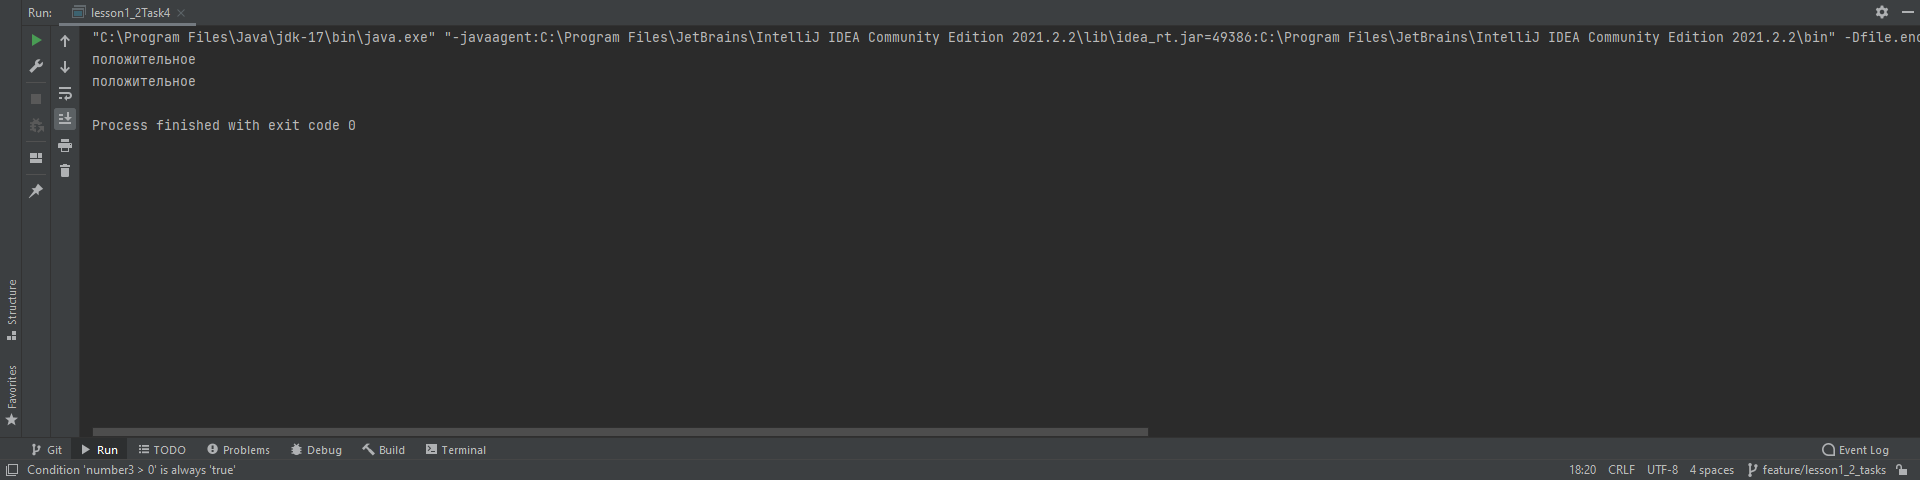
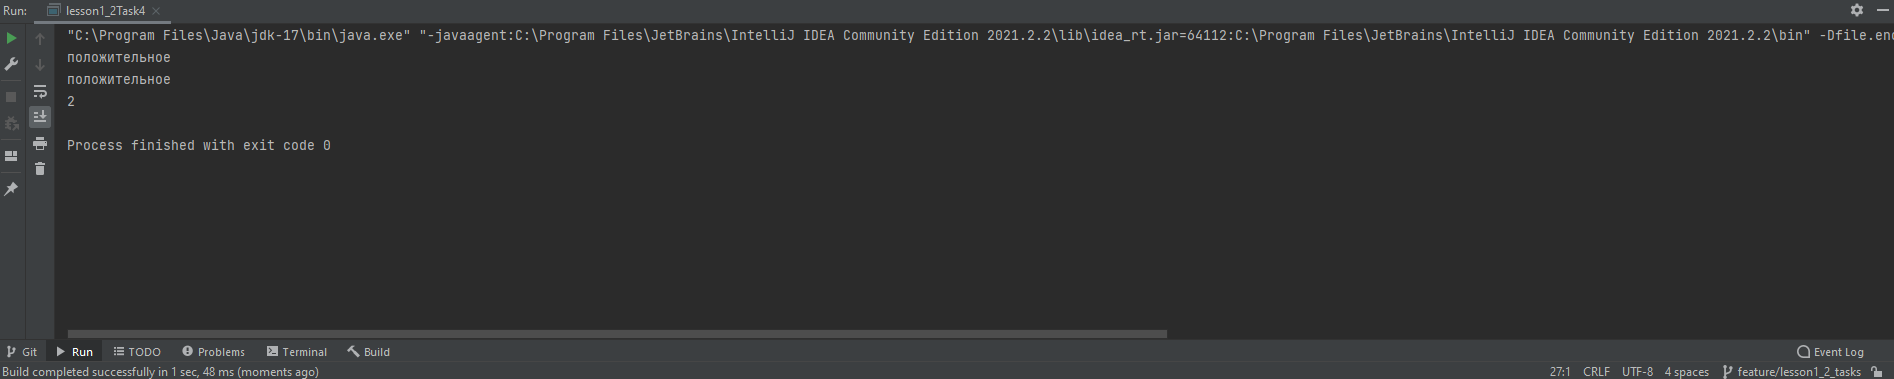
Completed 6 tasks Lesson1_2 homework

diff --git a/src/lesson1_2/lesson1_2Task5.java b/src/lesson1_2/lesson1_2Task5.java
@@ -1,27 +1,37 @@
 package lesson1_2;
 
+import jdk.swing.interop.SwingInterOpUtils;
+
 /**5) Даны 3 целых числа. Найти количество положительных и отрицательных
  чисел в исходном наборе.*/
-
 public class lesson1_2Task5 {
     public static void main (String [] agrs) {
-
 
         byte number1 = -23;
         byte number2 = 15;
         byte number3 = 10;
+        int negativCounter = 0;
+        int positivCounter = 0;
 
-        if (number1 > 0)
+        if (number1 > 0){
             System.out.println("положительное");
-        else if (number1 < 0)
+             positivCounter++;}
+        else if (number1 < 0){
             System.out.println("отрицательное");
-        if (number2 > 0)
+            negativCounter++;}
+        if (number2 > 0){
             System.out.println("положительное");
-        else if (number2 < 0)
+            positivCounter++;}
+        else if (number2 < 0){
             System.out.println("отрицательное");
-        if (number3 > 0)
+            negativCounter++;}
+        if (number3 > 0){
             System.out.println("положительное");
-        else if (number3 < 0)
+            positivCounter++;}
+        else if (number3 < 0){
             System.out.println("отрицательное");
+            negativCounter++;}
+        System.out.println(negativCounter);
+        System.out.println(positivCounter);
     }
 }

diff --git a/src/lesson1_2/lesson1_2Task2.java b/src/lesson1_2/lesson1_2Task2.java
@@ -1,27 +1,26 @@
 package lesson1_2;
-
 /**2) Треугольник существует только тогда, когда сумма любых двух его сторон
         больше третьей. Определить существует ли такой треугольник. Дано: a, b, c –
         стороны предполагаемого треугольника. Требуется сравнить длину каждого
         отрезка-стороны с суммой двух других. Если хотя бы в одном случае отрезок
         окажется больше суммы двух других, то треугольника с такими сторонами не
         существует*/
-
-
-
 public class lesson1_2Task2 {
 
     public static void main(String[] args) {
 
+        int     sideA = 4,
+                sideB= 8,
+                sideC= 14;
 
-        int     a = 4,
-                b = 8,
-                c = 14;
+        if (sideA + sideB > sideC && sideA + sideC > sideB && sideC + sideB > sideA) ;
+        {
 
-        if (a + b > c && a + c > b && c + b > a) ;
-
-        else
+            System.out.println("Треугольник  существует");
+        }
+        if (sideA + sideB < sideC && sideA + sideC < sideB && sideC + sideB < sideA) {
             System.out.println("Треугольник не существует");
 
+        }
     }
 }

diff --git a/src/lesson1_2/lesson1_2Task1.java b/src/lesson1_2/lesson1_2Task1.java
@@ -1,28 +1,24 @@
 package lesson1_2;
-
 /**1) В переменную записываем число. Надо вывести на экран сколько в этом
  числе цифр и положительное оно или отрицательное. Например, "это
  однозначное положительное число". Достаточно будет определить, является ли
  число однозначным, "двухзначным или трехзначным и более.*/
-
-
-
 public class lesson1_2Task1 {
     public static void main(String[] agrs) {
 
-        int number1 = 351;
+        int targetNumber = 351;
 
-        if (number1 < 0) {
+        if (targetNumber < 0) {
             System.out.println("Число отрицательное,");
-        } else if (number1 > 0) {
+        } else if (targetNumber > 0) {
             System.out.println("Число положительное,");
         } else {
             System.out.println("Число 0");
 
         }
-        if (number1 > 9 && number1 < 100) {
+        if (targetNumber > 9 && targetNumber < 100) {
             System.out.println("двухзначное.");
-        } else if (number1 < 10) {
+        } else if (targetNumber < 10) {
             System.out.println("однозначное.");
         } else {
             System.out.println("трехзначное и более.");

diff --git a/src/lesson1_2/lesson1_2Task4.java b/src/lesson1_2/lesson1_2Task4.java
@@ -1,25 +1,28 @@
 package lesson1_2;
-
 /**4) Даны 3 целых числа. Найти количество положительных чисел в исходном
  наборе.*/
-
-
 public class lesson1_2Task4 {
     public static void main (String [] arg){
 
-        int number1 = -37;
-        int number2 = 1;
-        int number3 = 29;
+        int firstInteger = -37;
+        int secondInteger = 1;
+        int thirdInteger = 29;
+        int  counter = 0;
 
-        if (number1 > 0)
+        if (firstInteger > 0) {
             System.out.println("положительное");
-        if (number2 > 0)
+            counter++;
+        }
+        if (secondInteger > 0) {
             System.out.println("положительное");
-        if (number3 > 0)
+            counter++;
+        }
+        if (thirdInteger > 0) {
             System.out.println("положительное");
-
-
-
+            counter++;
+        }
+        System.out.println(counter);
 
     }
+
 }

diff --git a/src/lesson1_2/lesson1_2Task3.java b/src/lesson1_2/lesson1_2Task3.java
@@ -1,25 +1,19 @@
 package lesson1_2;
-
 /**3) Дано целое число. Если оно является положительным, то прибавить к нему 1.
  Если отрицательным, то вычесть из него 2. Если нулевым, то заменить его на
  10. Вывести полученное число.*/
-
-
-
 public class lesson1_2Task3 {
 
     public static void main(String [] args){
 
-        short number1 = 33;
+        short integer = 33;
 
-        if (number1 > 0)
-            System.out.println(number1 + 1);
-        else if (number1 < 0)
-            System.out.println(number1 - 2);
-        else if (number1 == 0)
-            System.out.println(number1 = 10);
-
-
+        if (integer > 0)
+            System.out.println(integer + 1);
+        else if (integer < 0)
+            System.out.println(integer - 2);
+        else if (integer == 0)
+            System.out.println(integer = 10);
 
     }
 }

diff --git a/src/lesson1_2/lesson1_2Task6.java b/src/lesson1_2/lesson1_2Task6.java
@@ -1,23 +1,17 @@
 package lesson1_2;
-
 /**6) Даны 2 числа. Вывести большее из них.
  */
-
 public class lesson1_2Task6 {
     public static void main(String [] args){
 
-        int number1 = 35;
-        int number2 = 23;
+        int firstNumber = 35;
+        int secondNumber = 23;
 
-        if (number1 > number2) {
-            System.out.println("The biggest number" + number1);
+        if (firstNumber > secondNumber) {
+            System.out.println("The biggest number " + firstNumber);
         } else {
-            System.out.println("The biggest number" + number2);
+            System.out.println("The biggest number " + secondNumber);
         }
 
-
-
     }
-
-
-    }
+}

diff --git a/src/lesson1_2/lesson1_2Task7.java b/src/lesson1_2/lesson1_2Task7.java
@@ -1,0 +1,17 @@
+package lesson1_2;
+/**7) (Дополнительно) В переменную записываете количество программистов. В
+ зависимости от количества программистов необходимо вывести правильно
+ окончание. Например:
+ • 2 программиста
+ • 1 программиста
+ • 10 программистов
+ • и т.д
+ 1, 21, 31... - программист
+ 2, 3, 4, 22, 23, 24... - программиста
+ 11, 12, 13, 14 - программистов
+
+ */
+public class lesson1_2Task7 {
+
+}
+
